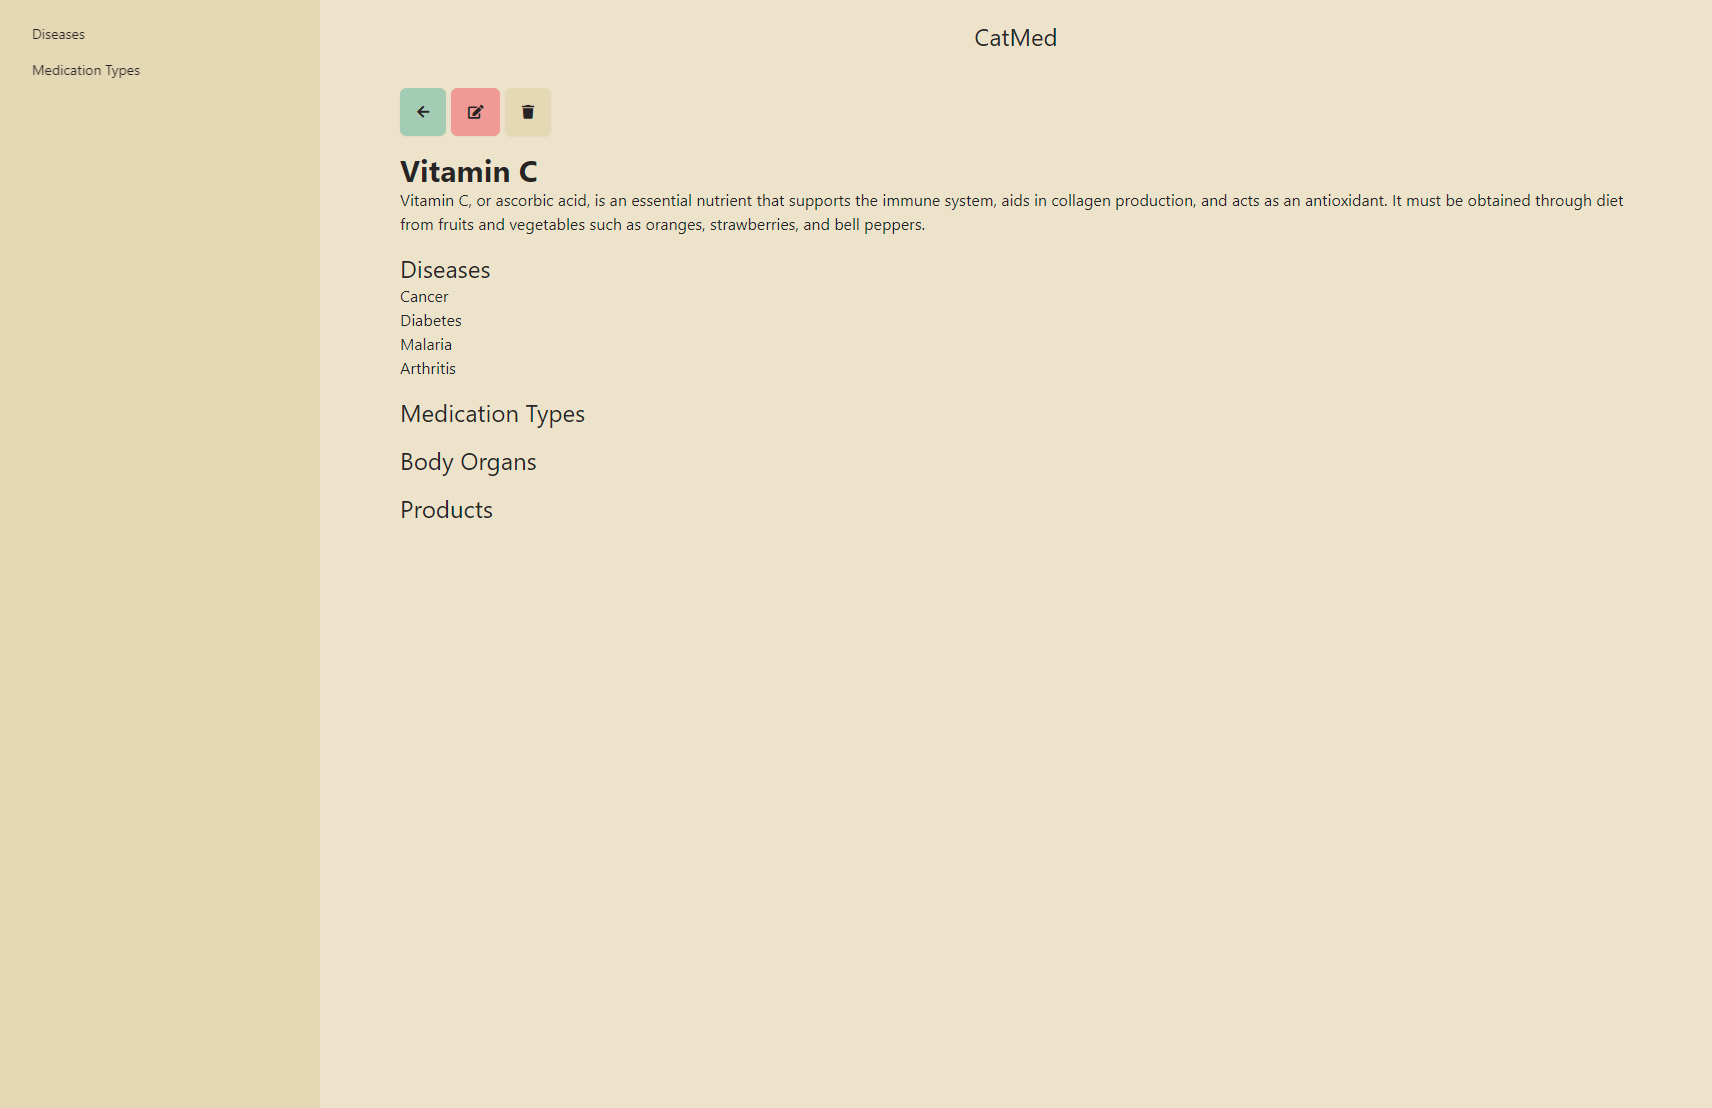
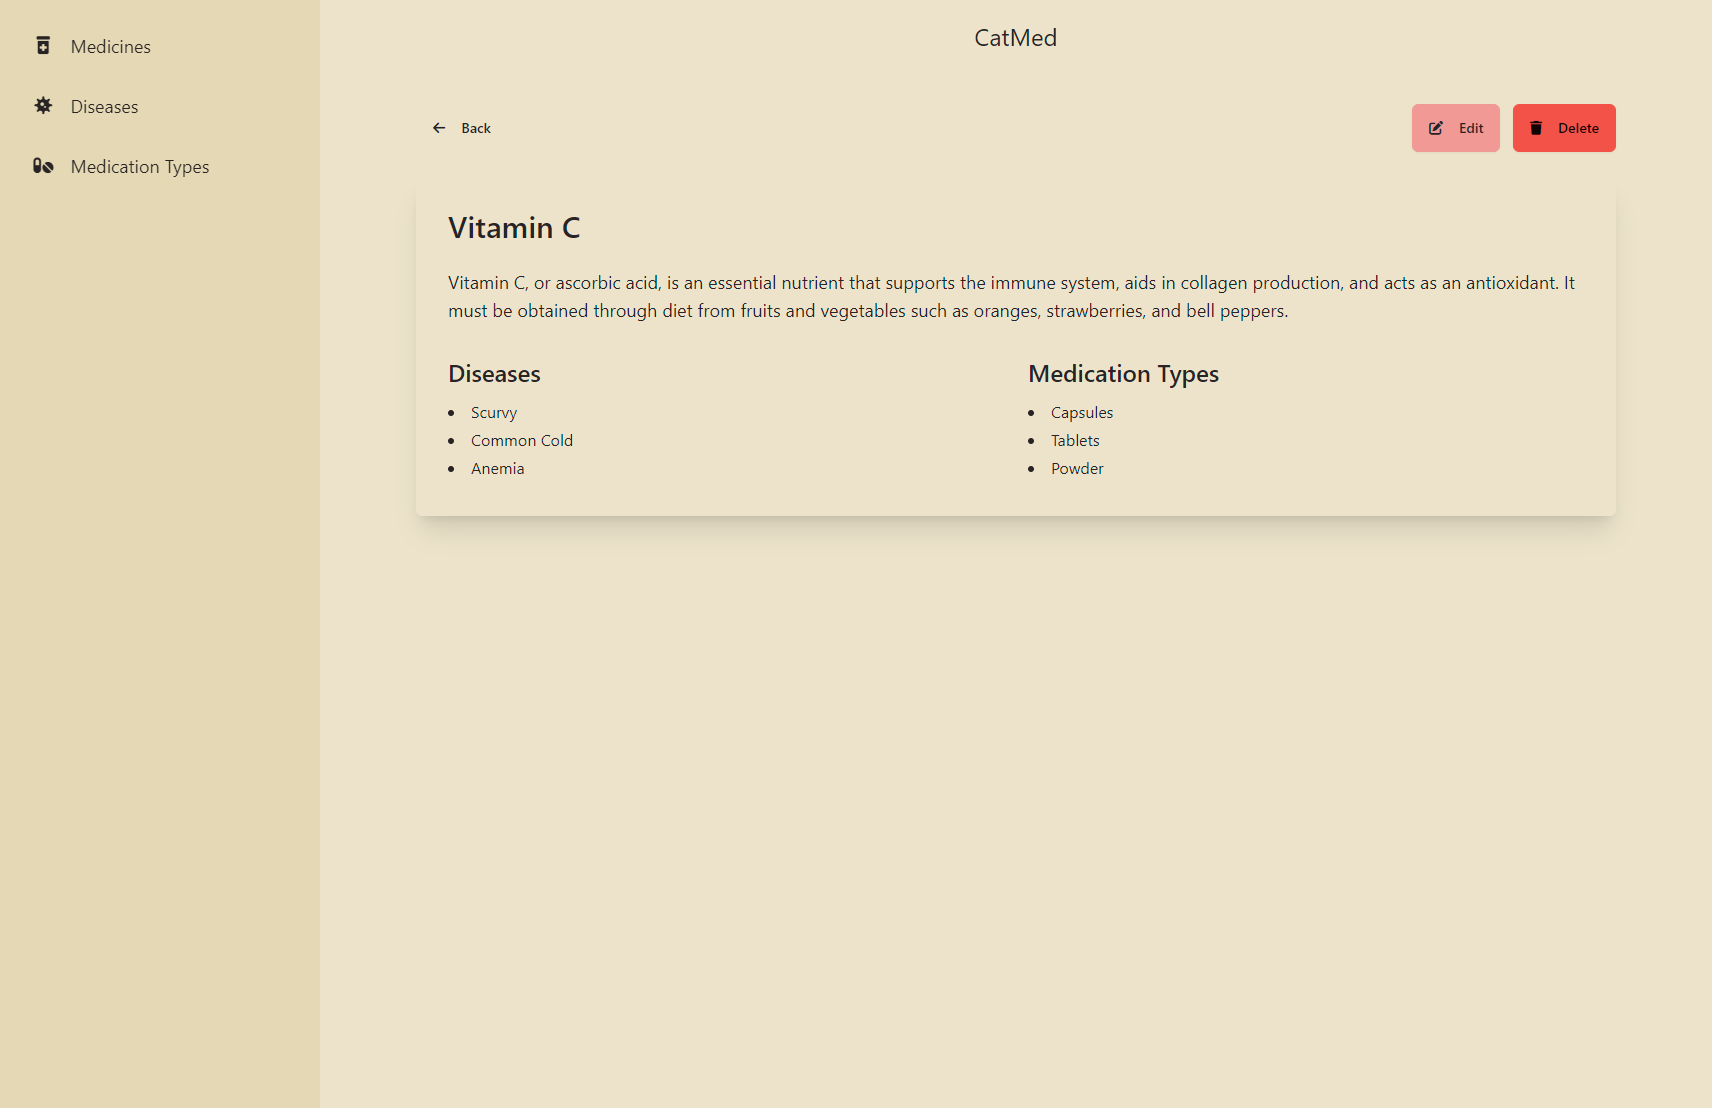
tasks and update readme + new screenshots with the update UI

diff --git a/README.md b/README.md
@@ -52,6 +52,14 @@
 
 ## About
 
+#### Inspiration
+
+A friend of mine who is a doctor asked me to make an app that would help him keep track of medicine using categories of
+different types.
+So that's how the project started.
+
+#### What it does
+
 This project is all about organizing information related to medicines, diseases, and the body parts they affect. You
 can create medicines in the system and link them to different organs or categorize them by the types of conditions they
 treat.
@@ -60,6 +68,12 @@ The idea behind this project is to make it easier to keep track of medicines and
 diseases and body parts.
 It was created with the intention of helping doctors to quickly find the right medicine for a
 specific condition.
+
+#### The goal
+
+The goal of this project is to see it being used by my friend but also by other doctors who might find it useful.
+
+#### Future plans
 
 Eventually, I plan to add more features to the project, such as the ability to add product url links to the medicines
 and scrape the price of the medicine from the website.
@@ -74,9 +88,11 @@ It is part of the Hack Club Summer of Making program of 2024.
 > **[?]**
 > Please provide your screenshots here.
 
-|                                  Home Page                                   |                                    Login Page                                    |
-|:----------------------------------------------------------------------------:|:--------------------------------------------------------------------------------:|
-| <img src="docs/images/medicine_list.png" title="Medicine List" width="100%"> | <img src="docs/images/medicine_detail.png" title="Medicine_detail" width="100%"> |
+|                                   Home Page                                    |                                    Login Page                                    |
+|:------------------------------------------------------------------------------:|:--------------------------------------------------------------------------------:|
+|  <img src="docs/images/medicine_list.png" title="Medicine List" width="100%">  | <img src="docs/images/medicine_detail.png" title="Medicine_detail" width="100%"> |
+|                                  Update Page                                   |                                   Disease List                                   |
+| <img src="docs/images/medicine_update.png" title="Medicine List" width="100%"> |   <img src="docs/images/disease_list.png" title="Medicine List" width="100%">    |
 
 </details>
 

diff --git a/docs/CatMed/Tasks.md b/docs/CatMed/Tasks.md
@@ -2,16 +2,9 @@
 
 
 # Urgent
-- [x] fix main page grid
-	- [x] remove placeholders or add some models there
-- [x] fix sidebar make it bigger 
-	- [x]  add a sidebar item for medicine list
-- [x] format the detail view
-	- [x] remove unused fields or add placeholders
-- [ ] create medicine
-	- [ ] there's a weird bug where after opening the add modal the dropdown won't open anymore
-	  delete disease is a bit broken
-- [x] add tests?
+delete disease is a bit broken
+- [ ] display validation errors add modal
+- [ ] pagination for disease list
       
 ### New features
 - Sorting by disease or other models
@@ -24,7 +17,7 @@
 	 - [x] delete confirmation modal with alert
 		 - [ ] fix alerts(low prio)
 	 - [x] add modal
-		 - [ ] display validation errors
+
 - medication type list
 	- [ ]  medication type add modal
 
